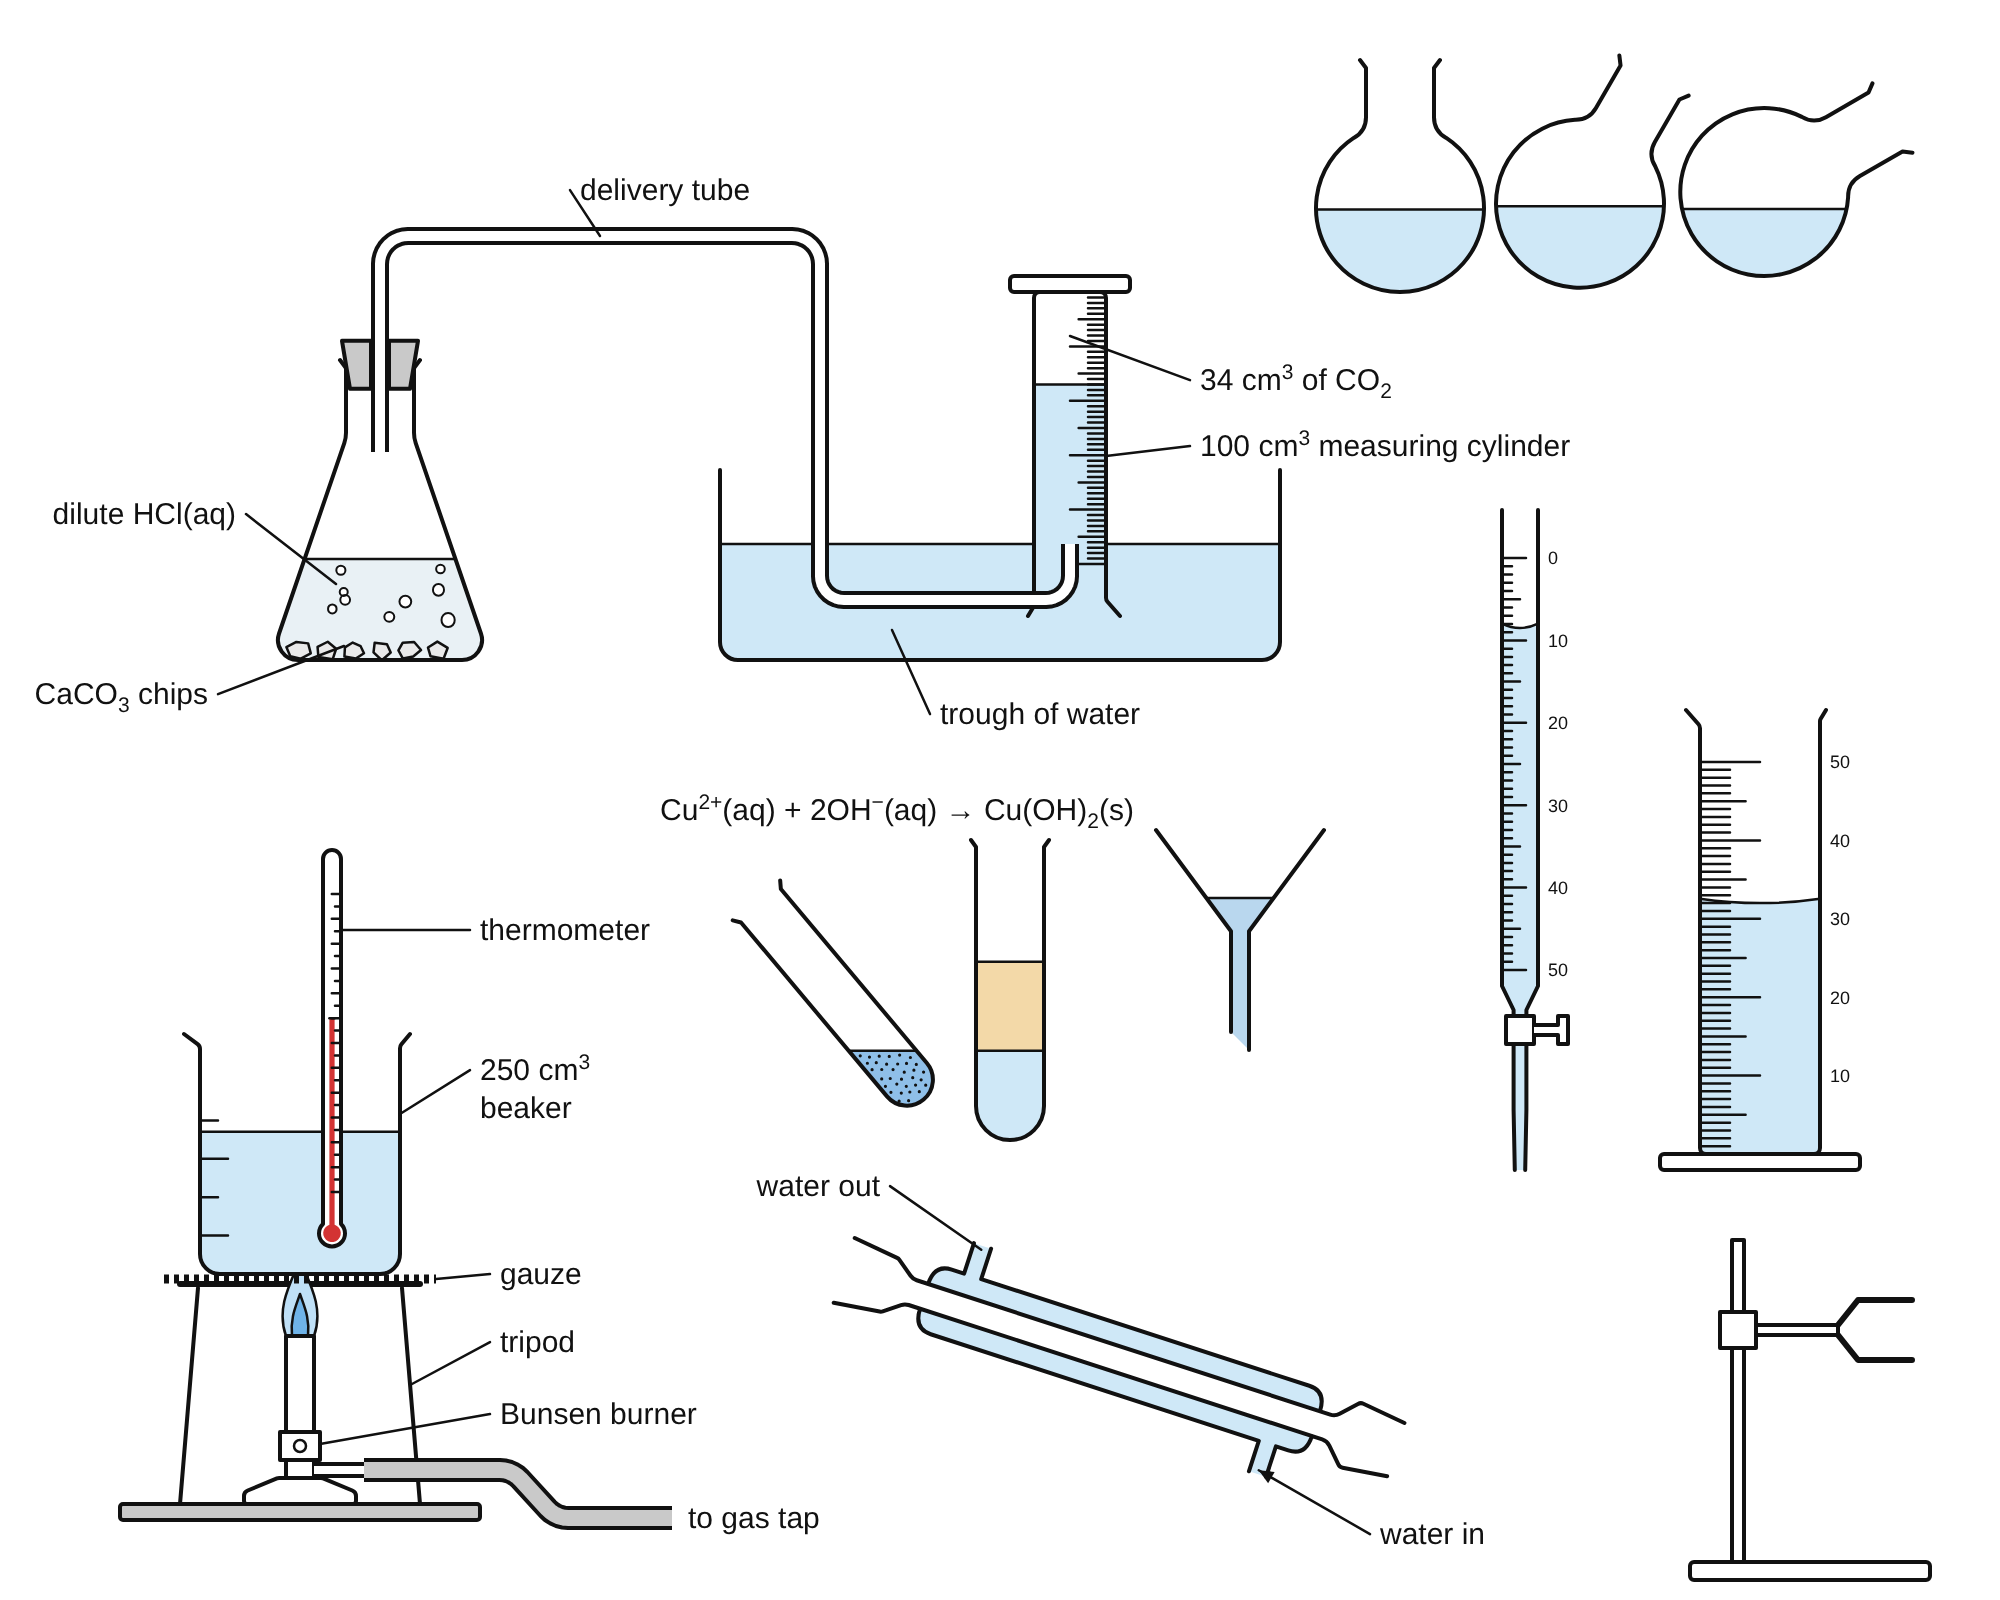
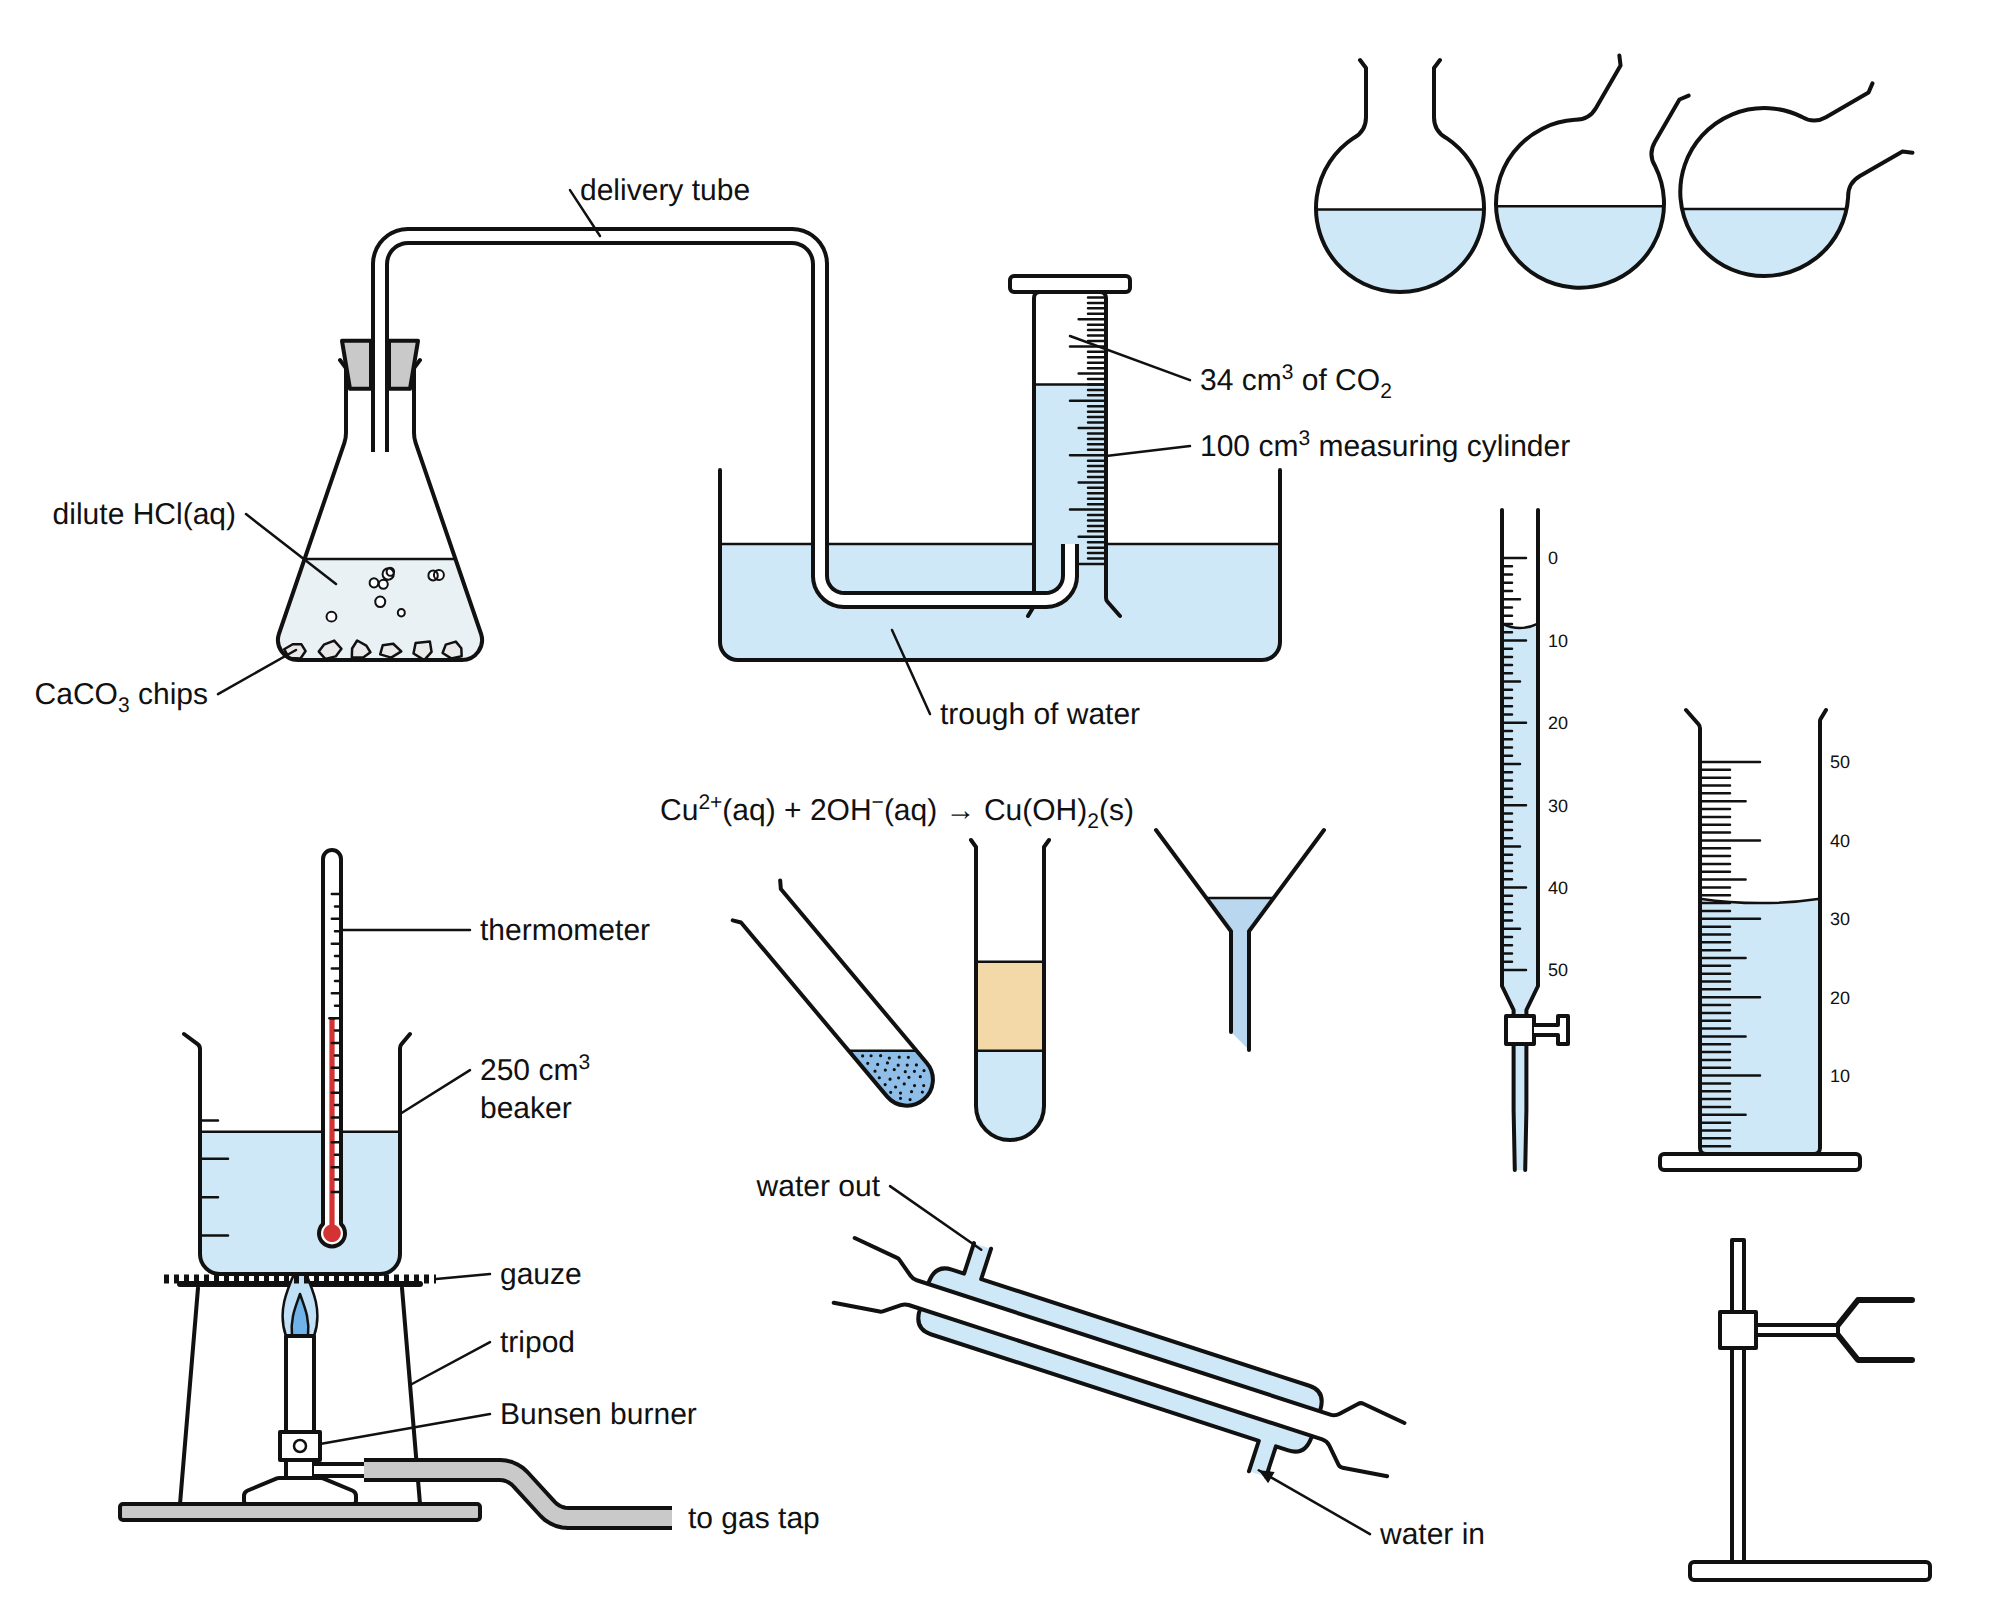
Template review round 2 fixes; refresh the style reference picture
- rateGasSyringe: the clamp's jaws (opening 38) touch the barrel; before, they stood off it.
- distillation: the granules leader ends on the left-hand granule.
- thermalDecomposition: the clamp turns with the sloping tube (rot -10), so its jaws lie
  along the walls, and it is drawn behind the tube with its stand, as the condenser clamp in
  distillation. Before, its level jaws crossed the walls, and its boss was in front while
  its rod was behind.
- demo.ts: the "CaCO3 chips" leader ends on a chip under the new contents seed.
- docs/style-reference.png is the new out/reference.png (the contents seed moved the
  bubbles and chips).

Claude-Session: https://claude.ai/code/session_01FaycGtq3oPpnhCB3dVqNqs

diff --git a/pracdraw/src/templates/chemistry.ts b/pracdraw/src/templates/chemistry.ts
@@ -179,7 +179,7 @@ const rateGasSyringe: TemplateDef = {
     const b = new DocBuilder('Rate of reaction: gas syringe')
     // The stand and its clamp are made first, so that they are drawn behind the syringe and the tube, and placed once those are.
     const stand = b.symbol('clampStand', { w: 100 })
-    const clamp = b.symbol('bossClamp', { w: 80, params: { grip: 44 } }) // the jaws open just wider than the 34 u barrel
+    const clamp = b.symbol('bossClamp', { w: 80, params: { grip: 38 } }) // the jaws touch the 34 u barrel
     const flask = b.at('conicalFlask', 'base', P(0, 0), {
       contents: { main: [lumps(0.1, GRANULES), liquid(0.3, COLOURLESS, { bubbles: 'many' })] },
     })
@@ -196,7 +196,7 @@ const rateGasSyringe: TemplateDef = {
     b.connector('glassTube', [v(hole.x, hole.y + 32), v(hole.x, nozzle.y, 12), v(nozzle.x + 8, nozzle.y)])
     const watch = b.near('stopwatch', flask, 'base', { dx: 330, dy: -33 })
     const top = toWorld(syringe, P(0, 1)).y
-    b.label('clamp', nozzle.x - 20, top - 40, [clamp, 20, -2]) // the upper jaw, just above the barrel's top wall
+    b.label('clamp', nozzle.x - 20, top - 40, [clamp, 20, 1]) // the upper jaw, on the barrel's top wall
     b.label('gas syringe', nozzle.x + 110, top - 40, [syringe, -40, 1])
     b.label('clamp stand', nozzle.x + 60, -60, [stand, -26, stand.h * 0.8])
     b.label('delivery tube', -90, -205, P(-3.5, -190))
@@ -372,7 +372,7 @@ const distillation: TemplateDef = {
     b.label('water out', 130, -318, [condenser, -83, 4])
     b.label('thermometer', -90, -380, [thermo, -4.5, 40])
     b.label('round-bottomed flask', -90, -140, [flask, -53, 80])
-    b.label('anti-bumping granules', -90, -90, [flask, -8, 145])
+    b.label('anti-bumping granules', -90, -90, [flask, -14.5, 145]) // the centre of the left-hand granule
     b.label('heating mantle', -90, -30, [mantle, -55, 80])
     b.label('Liebig condenser', 300, -290, [condenser, 60, 18])
     b.label('distillate', 480, -30, [collect, 15, 92])
@@ -717,8 +717,10 @@ const thermalDecomposition: TemplateDef = {
       contents: { main: [c2Powder(0.15, c2Preset.greenPowder)] },
     })
     const bung = b.on('bung', 'plug', tube, 'mouth', { rot: 80 })
-    // The clamp grips the neck, near the mouth, and is drawn in front of the sloping tube: behind it, the tube would hide the boss and arm. Its stand rises behind the tube.
-    const clamp = b.on('bossClamp', 'grip', tube, 'neck', { w: 70, params: { grip: 34 } })
+    // The clamp grips the neck, near the mouth. It is turned with the tube, so its jaws lie along the walls, and it is drawn
+    // behind the tube with its stand, as the condenser's clamp in distillation.
+    const clamp = b.on('bossClamp', 'grip', tube, 'neck', { w: 76, rot: -10, params: { grip: 38 } })
+    c2Behind(b.doc, clamp, tube)
     c2Stand(stand, clamp, anchorWorld(mat, 'under').y)
     // The rack stands on the bench 15 u to the right of the stand's base plate (75 + 15 + 60).
     const rack = b.on('testTubeRack', 'base', stand, 'base', { dx: 150, w: 120, params: { holes: 3 } })
@@ -729,7 +731,7 @@ const thermalDecomposition: TemplateDef = {
       lw = anchorWorld(limewater, 'mouth'),
       lb = anchorWorld(limewater, 'bottom')
     b.connector('glassTube', [v(inside.x, inside.y), v(out.x, out.y, 12), v(lw.x, out.y, 12), v(lw.x, lb.y - 6)]) // the outlet is below every bubble: gas leaves it and rises
-    b.label('clamp', -80, -270, [clamp, -26, 11])
+    b.label('clamp', -80, -270, [clamp, 20, 1]) // the upper jaw
     b.label('boiling tube', -80, -230, [tube, -17, 120])
     b.label('copper carbonate', -80, -190, [tube, 12, 167])
     b.label('Bunsen burner', -80, -52, [burner, -7, 75])

diff --git a/pracdraw/src/demo.ts b/pracdraw/src/demo.ts
@@ -43,7 +43,7 @@ export function demoDoc(): Doc {
     v(535, floor - 58),
   ])
   b.label('dilute HCl(aq)', 118, 262, [flask, -22, 112])
-  b.label('CaCO3 chips', 104, 352, [flask, -18, 143])
+  b.label('CaCO3 chips', 104, 352, [flask, -42, 145]) // the centre of the left-hand chip
   b.label('delivery tube', 290, 100, P(300, 118), { side: 'right' })
   b.label('34 cm3 of CO2', 600, 195, [cyl, 0, 140])
   b.label('100 cm3 measuring cylinder', 600, 228, [cyl, -18, 80])
